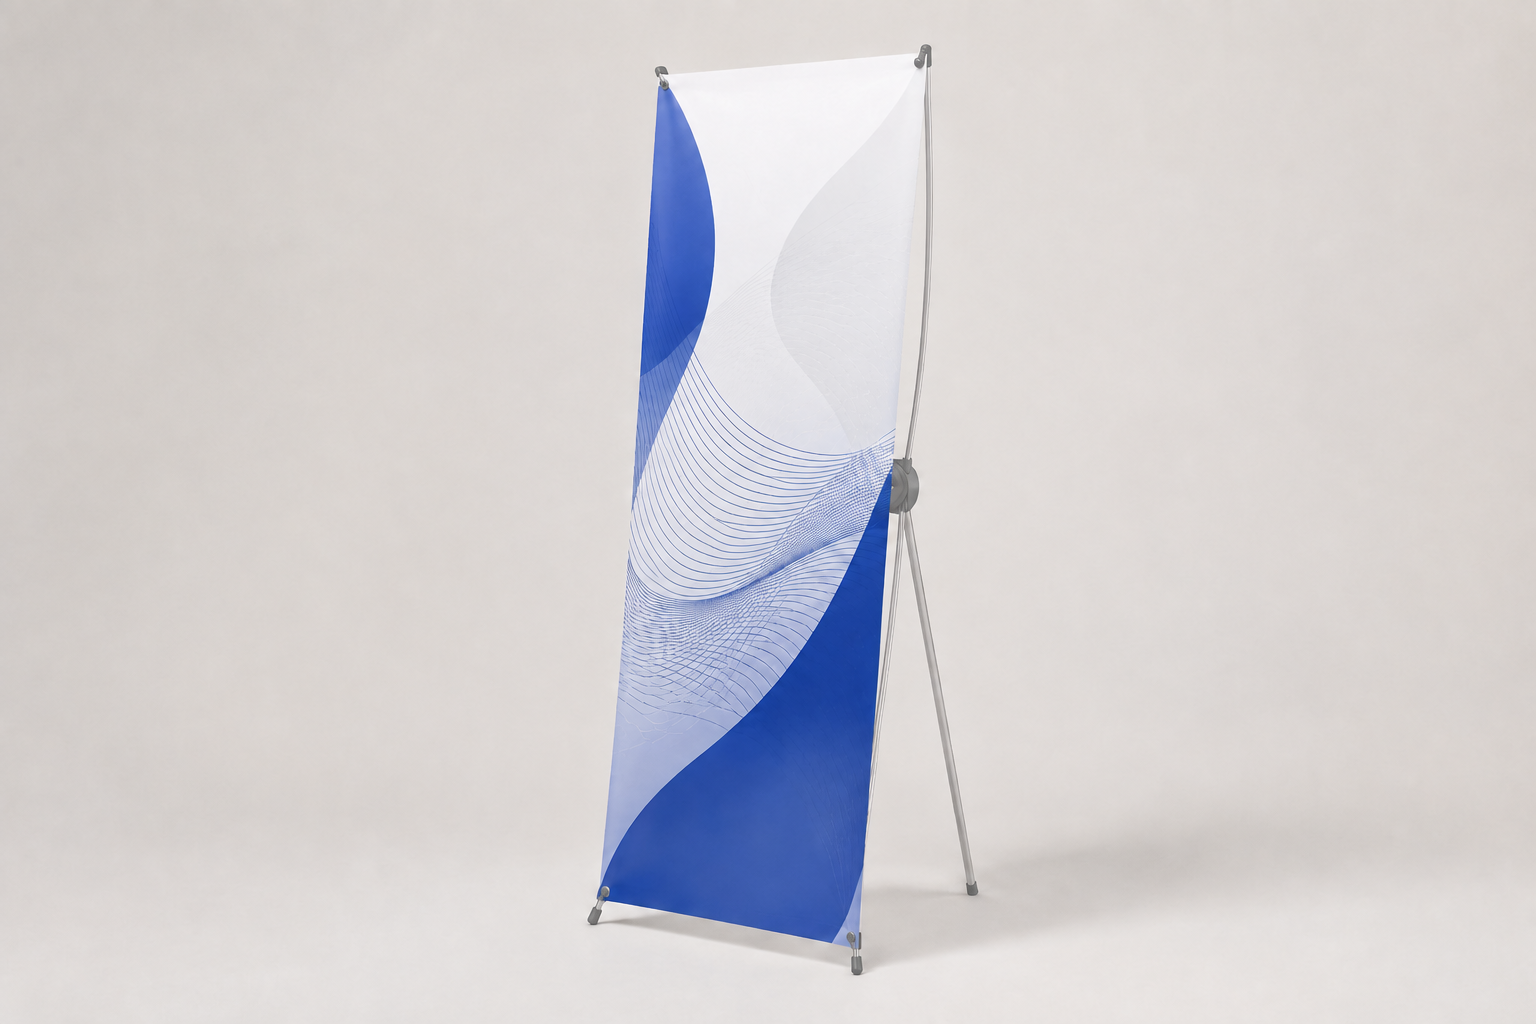
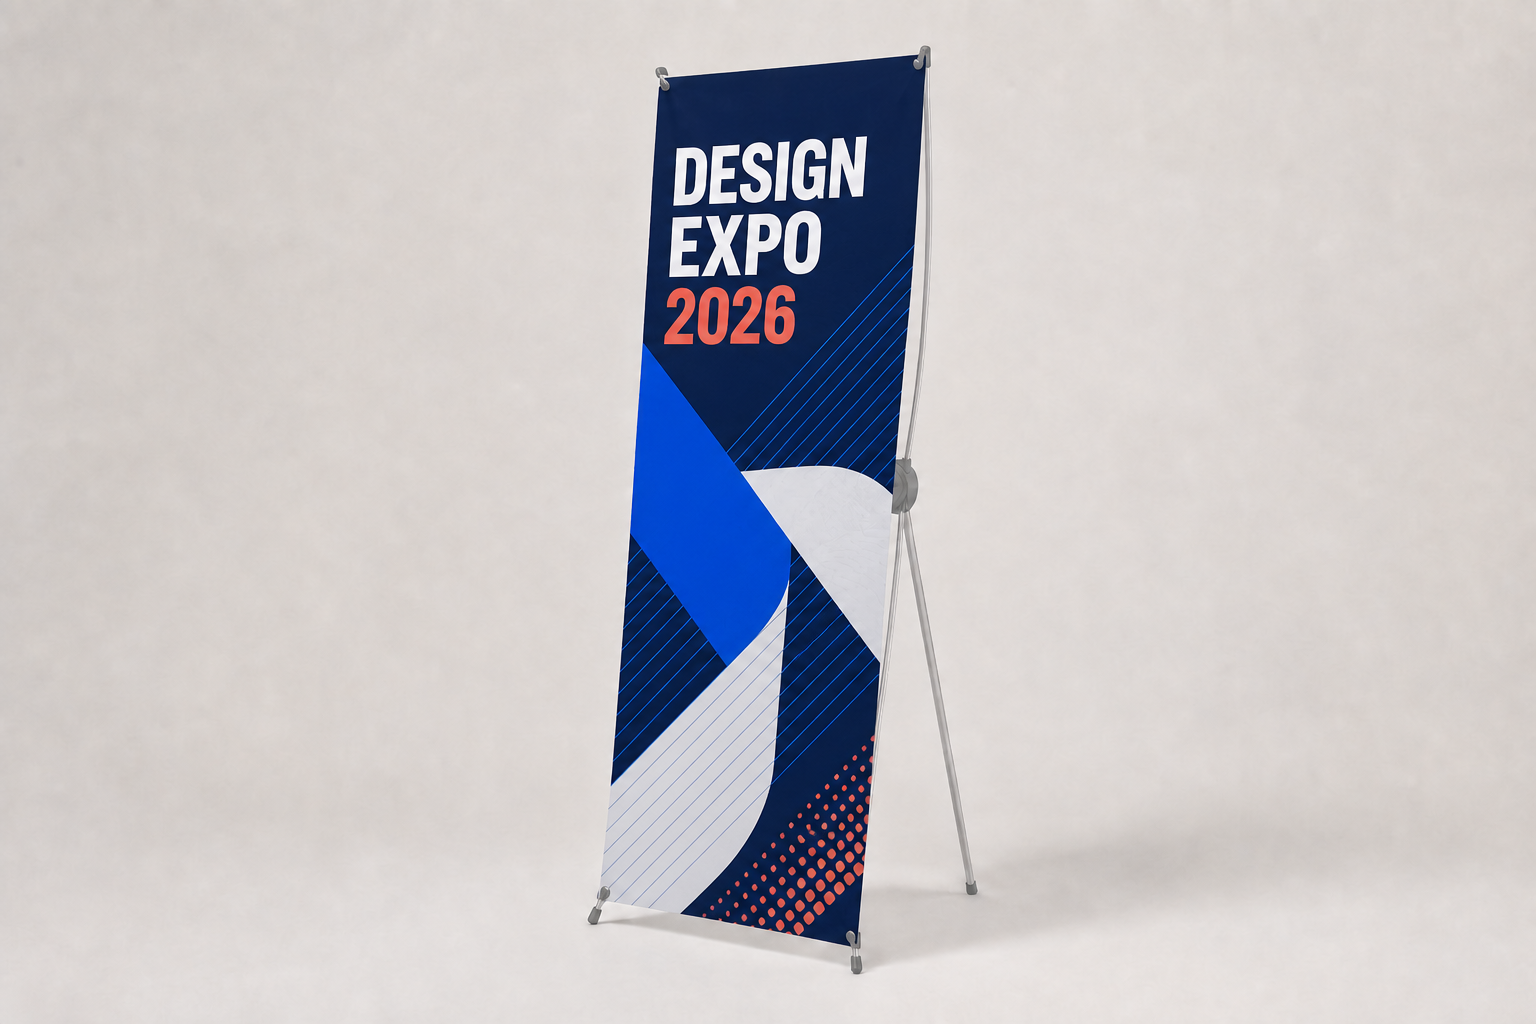
X배너 이미지와 설치 안내 수정

Changed region(s): [[0.375, 0.0312, 0.625, 0.9375]]

diff --git a/detail/xbanner-new.html b/detail/xbanner-new.html
@@ -10,7 +10,7 @@
     <div style="max-width:1200px; margin:0 auto;">
 
       <section style="position:relative; background:#f3f6fb;">
-        <img src="https://tara-shopping.vercel.app/images/xbanner-new-hero-20260812.png" alt="실버 엑스배너 거치대와 출력물" style="display:block; width:100%; max-width:100%; height:auto;">
+        <img src="https://tara-shopping.vercel.app/images/xbanner-new-hero-20260812.png?v=2" alt="디자인 전시회 출력물을 장착한 실버 엑스배너 거치대" style="display:block; width:100%; max-width:100%; height:auto;">
         <div style="padding:52px 6% 58px; background:#0d2d64; color:#ffffff; text-align:center;">
           <p style="margin:0 0 12px; color:#8fb7ff; font-size:15px; font-weight:800; letter-spacing:0.16em;">INDOOR X-BANNER</p>
           <h1 style="margin:0; font-size:clamp(34px,5vw,62px); line-height:1.14; font-weight:900; letter-spacing:-0.04em;">가볍게 펼치고, 선명하게 알리다</h1>
@@ -31,7 +31,7 @@
 
       <section style="padding:78px 5%; background:#f5f7fa;">
         <div style="display:flex; flex-wrap:wrap; align-items:center; gap:48px;">
-          <div style="flex:1 1 520px;"><img src="https://tara-shopping.vercel.app/images/xbanner-new-usecase-20260812.png" alt="전시 로비에 설치한 엑스배너 활용 예시" style="display:block; width:100%; max-width:100%; height:auto; border-radius:24px;"></div>
+          <div style="flex:1 1 520px;"><img src="https://tara-shopping.vercel.app/images/xbanner-new-usecase-20260812.png?v=2" alt="디자인 전시회 로비에 설치한 엑스배너 활용 예시" style="display:block; width:100%; max-width:100%; height:auto; border-radius:24px;"></div>
           <div style="flex:1 1 340px;">
             <p style="margin:0 0 12px; color:#326ed8; font-size:14px; font-weight:800; letter-spacing:0.16em;">USE CASE</p>
             <h2 style="margin:0; font-size:clamp(28px,4vw,43px); line-height:1.25; letter-spacing:-0.04em;">시선이 필요한 자리에<br>가볍게 세워보세요</h2>
@@ -82,9 +82,9 @@
         <p style="margin:16px auto 38px; max-width:700px; color:#cbd9ee; font-size:17px; line-height:1.75;">거치대와 출력물의 네 모서리를 순서대로 연결하면 누구나 쉽게 설치할 수 있습니다.</p>
         <div style="display:flex; flex-wrap:wrap; gap:18px; text-align:left;">
           <div style="flex:1 1 46%; min-width:280px; overflow:hidden; border-radius:20px; background:#1b3f70; box-sizing:border-box;"><img src="https://tara-shopping.vercel.app/images/xbanner-new-install-step1-20260812.png" alt="엑스배너 프레임 펼치기" style="display:block; width:100%; max-width:100%; height:auto;"><div style="padding:26px 28px 30px;"><strong style="display:block; color:#8fb7ff; font-size:13px;">STEP 1</strong><h3 style="margin:10px 0 8px; font-size:22px;">프레임 펼치기</h3><p style="margin:0; color:#d4e0f2; line-height:1.7;">접힌 프레임을 천천히 펼쳐 X 형태를 만듭니다.</p></div></div>
-          <div style="flex:1 1 46%; min-width:280px; overflow:hidden; border-radius:20px; background:#1b3f70; box-sizing:border-box;"><img src="https://tara-shopping.vercel.app/images/xbanner-new-install-step2-20260812.png" alt="출력물 하단 아일렛 연결" style="display:block; width:100%; max-width:100%; height:auto;"><div style="padding:26px 28px 30px;"><strong style="display:block; color:#8fb7ff; font-size:13px;">STEP 2</strong><h3 style="margin:10px 0 8px; font-size:22px;">하단부터 걸기</h3><p style="margin:0; color:#d4e0f2; line-height:1.7;">출력물 하단의 아일렛을 프레임 고리에 먼저 연결합니다.</p></div></div>
-          <div style="flex:1 1 46%; min-width:280px; overflow:hidden; border-radius:20px; background:#1b3f70; box-sizing:border-box;"><img src="https://tara-shopping.vercel.app/images/xbanner-new-install-step3-20260812.png" alt="출력물 상단 아일렛 고정" style="display:block; width:100%; max-width:100%; height:auto;"><div style="padding:26px 28px 30px;"><strong style="display:block; color:#8fb7ff; font-size:13px;">STEP 3</strong><h3 style="margin:10px 0 8px; font-size:22px;">상단 고정하기</h3><p style="margin:0; color:#d4e0f2; line-height:1.7;">상단 아일렛을 차례대로 당겨 고리에 연결합니다.</p></div></div>
-          <div style="flex:1 1 46%; min-width:280px; overflow:hidden; border-radius:20px; background:#1b3f70; box-sizing:border-box;"><img src="https://tara-shopping.vercel.app/images/xbanner-new-install-step4-20260812.png" alt="엑스배너 각도와 균형 조절" style="display:block; width:100%; max-width:100%; height:auto;"><div style="padding:26px 28px 30px;"><strong style="display:block; color:#8fb7ff; font-size:13px;">STEP 4</strong><h3 style="margin:10px 0 8px; font-size:22px;">각도와 균형 확인</h3><p style="margin:0; color:#d4e0f2; line-height:1.7;">중앙 조절부와 지지대를 맞춰 안정적으로 세웁니다.</p></div></div>
+          <div style="flex:1 1 46%; min-width:280px; overflow:hidden; border-radius:20px; background:#1b3f70; box-sizing:border-box;"><img src="https://tara-shopping.vercel.app/images/xbanner-new-install-step2-20260812.png?v=2" alt="출력물 하단 아일렛 연결" style="display:block; width:100%; max-width:100%; height:auto;"><div style="padding:26px 28px 30px;"><strong style="display:block; color:#8fb7ff; font-size:13px;">STEP 2</strong><h3 style="margin:10px 0 8px; font-size:22px;">하단부터 걸기</h3><p style="margin:0; color:#d4e0f2; line-height:1.7;">출력물 하단의 아일렛을 프레임 고리에 먼저 연결합니다.</p></div></div>
+          <div style="flex:1 1 46%; min-width:280px; overflow:hidden; border-radius:20px; background:#1b3f70; box-sizing:border-box;"><img src="https://tara-shopping.vercel.app/images/xbanner-new-install-step3-20260812.png?v=2" alt="출력물 상단 아일렛 고정" style="display:block; width:100%; max-width:100%; height:auto;"><div style="padding:26px 28px 30px;"><strong style="display:block; color:#8fb7ff; font-size:13px;">STEP 3</strong><h3 style="margin:10px 0 8px; font-size:22px;">상단 고정하기</h3><p style="margin:0; color:#d4e0f2; line-height:1.7;">상단 아일렛을 차례대로 당겨 고리에 연결합니다.</p></div></div>
+          <div style="flex:1 1 46%; min-width:280px; overflow:hidden; border-radius:20px; background:#1b3f70; box-sizing:border-box;"><img src="https://tara-shopping.vercel.app/images/xbanner-new-install-step4-20260812.png?v=2" alt="엑스배너 각도와 균형 조절" style="display:block; width:100%; max-width:100%; height:auto;"><div style="padding:26px 28px 30px;"><strong style="display:block; color:#8fb7ff; font-size:13px;">STEP 4</strong><h3 style="margin:10px 0 8px; font-size:22px;">각도와 균형 확인</h3><p style="margin:0; color:#d4e0f2; line-height:1.7;">중앙 조절부와 지지대를 맞춰 안정적으로 세웁니다.</p></div></div>
         </div>
         <div style="margin-top:28px; padding:20px 24px; border:1px solid #31517e; border-radius:14px; color:#d8e4f5; font-size:15px; line-height:1.7;">구성품: 실버 엑스배너 거치대 1개 · 주문 옵션에 따른 출력물<br>실외 또는 바람이 강한 장소에서는 전용 물통형 배너 거치대를 권장합니다.</div>
       </section>
